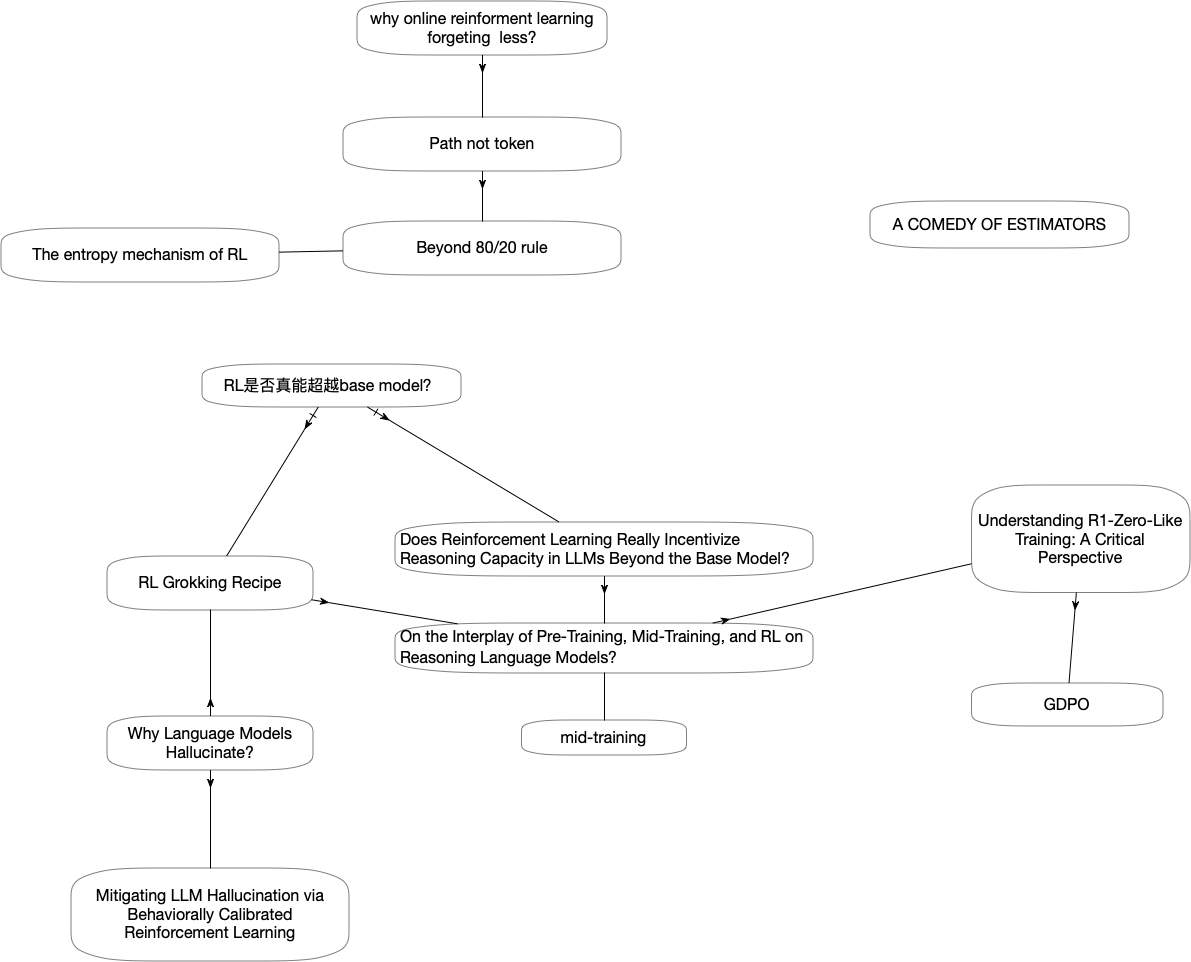
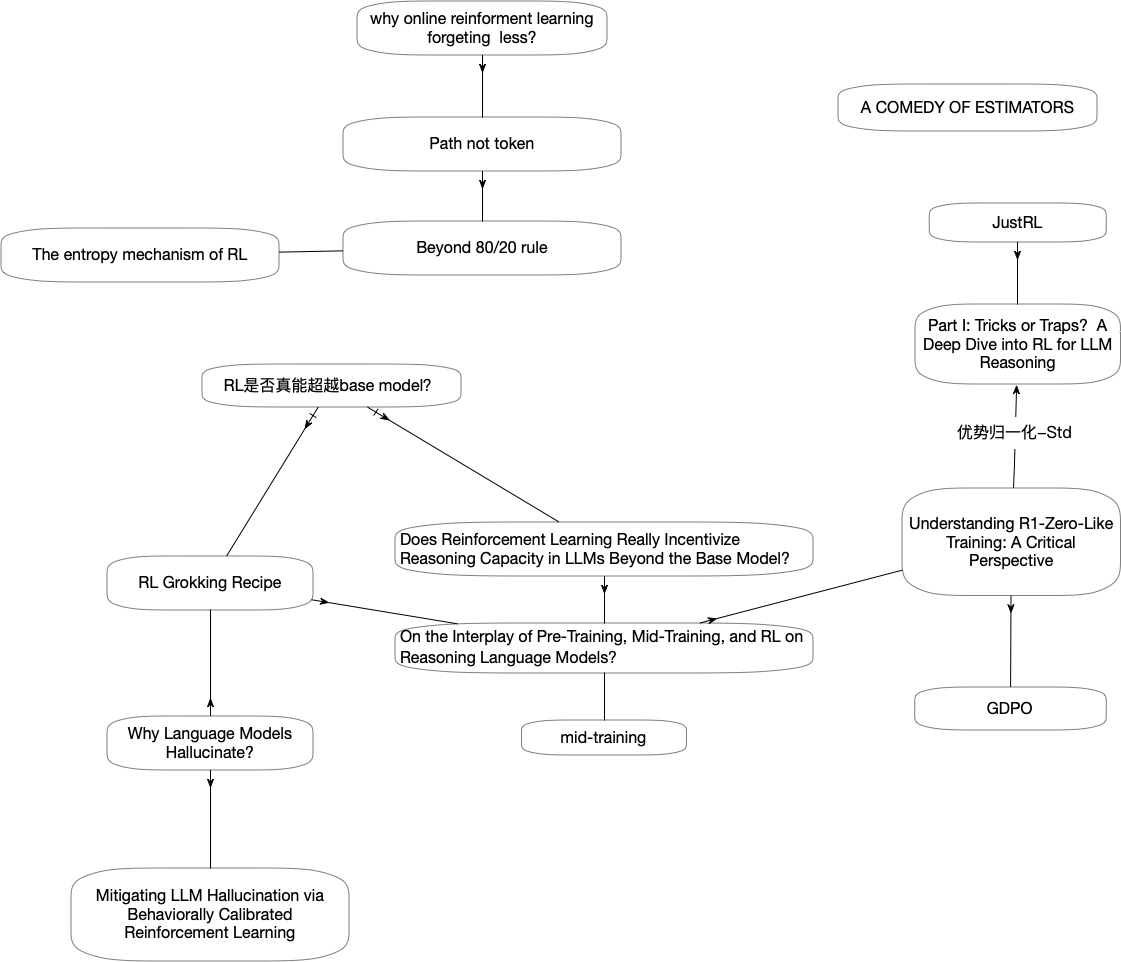
更新论文脉络图

diff --git a/README.md b/README.md
@@ -33,7 +33,7 @@
 * deepspeed-chat [deepspeed-chat](https://github.com/deepspeedai/DeepSpeed/tree/master/blogs/deepspeed-chat)
 
 
-![论文关联1](https://github.com/ztaoing/DeepRL_Steps/blob/main/rl_ai.png?v=2)
+![论文关联1](https://github.com/ztaoing/DeepRL_Steps/blob/main/rl_ai.png?v=3)
 # 强化学习论文
 * [TODO全面综述：RL在现实世界落地的未来方向:Statistical Reinforcement Learning in the Real World: A Survey of  Challenges and Future Directions]()
 
